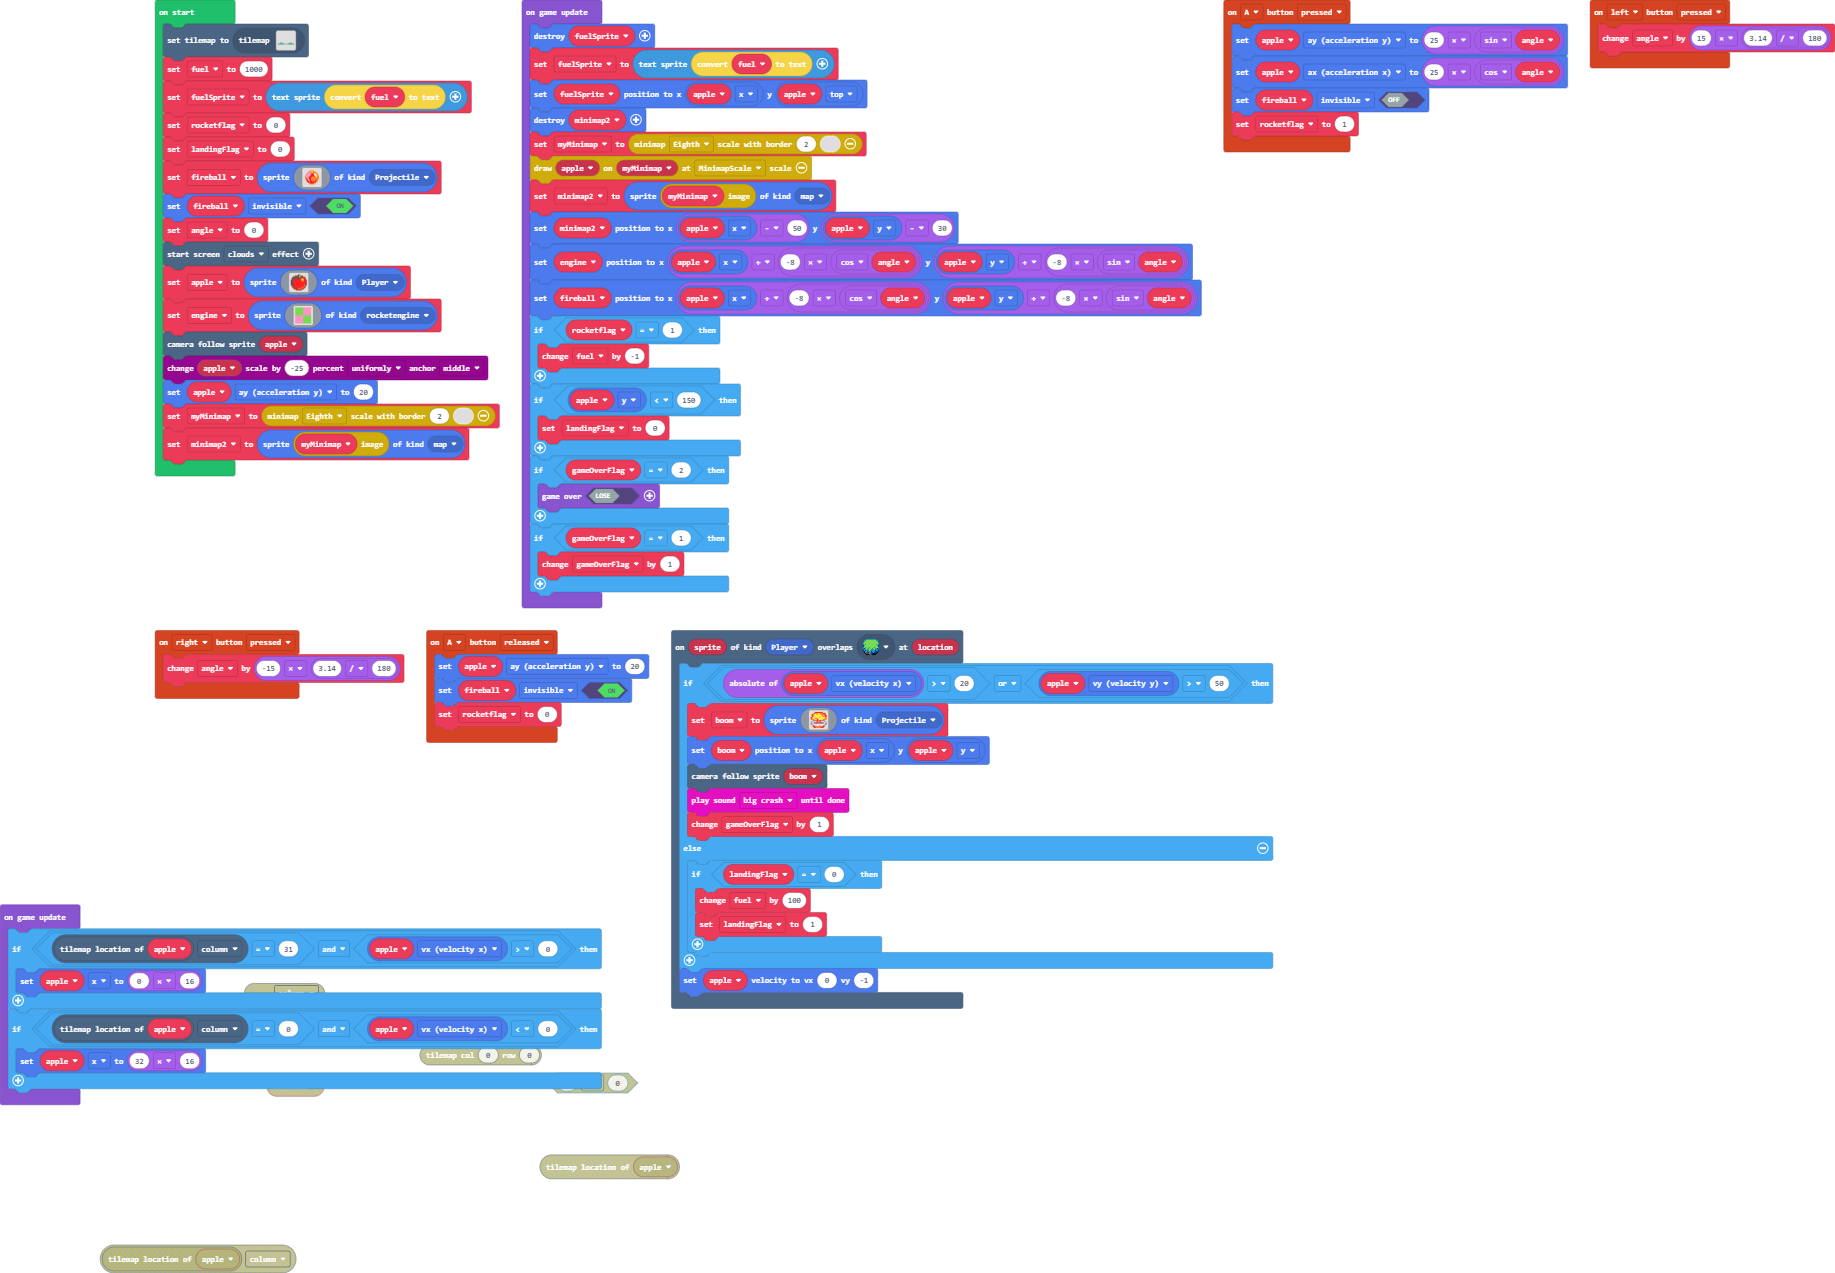
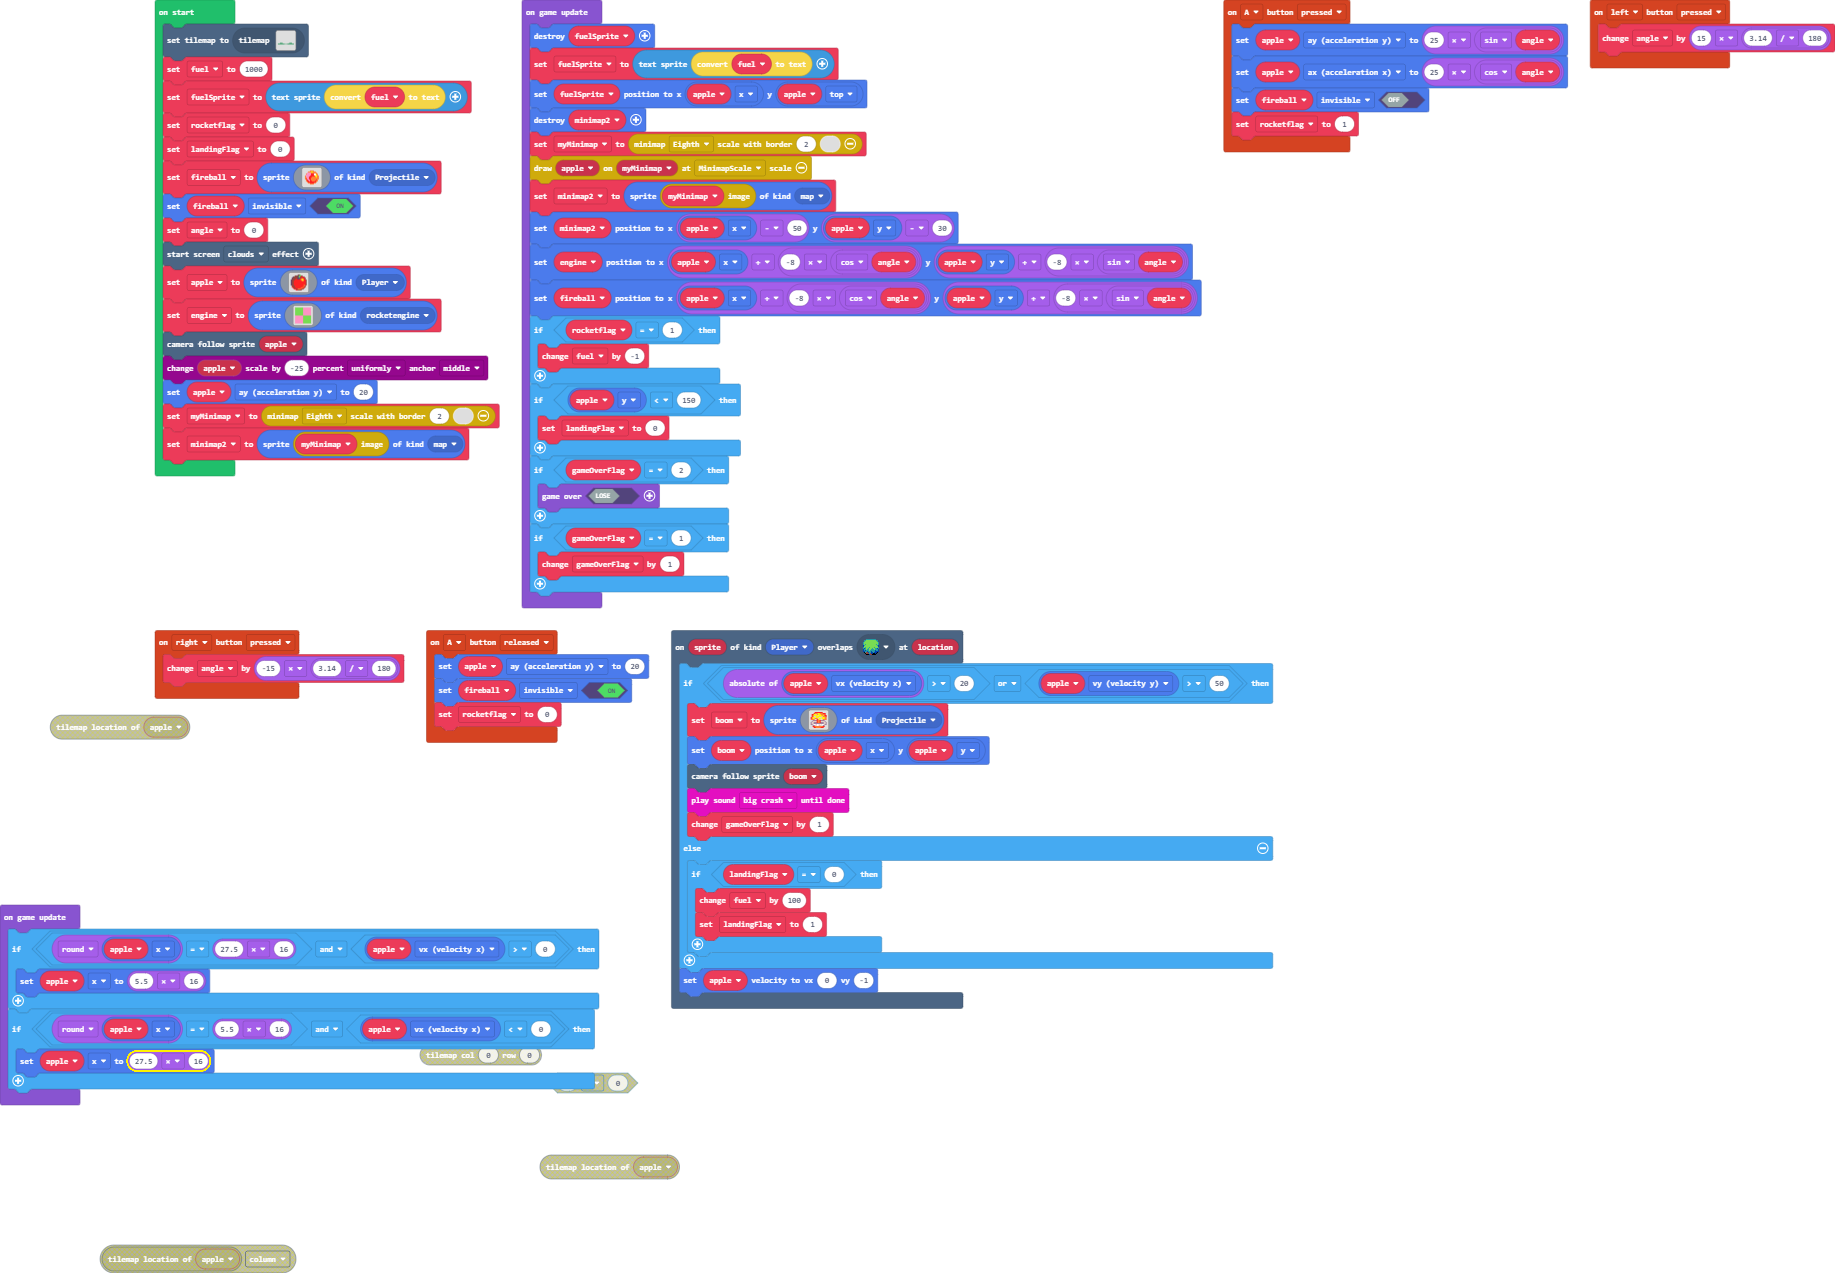
working on wrapping

Changed region(s): [[0.0311, 0.7353, 0.3417, 0.8578], [0.0311, 0.5515, 0.1243, 0.5821]]

diff --git a/main.ts b/main.ts
@@ -136,10 +136,10 @@ game.onUpdate(function () {
     }
 })
 game.onUpdate(function () {
-    if (apple.tilemapLocation().column == 31 && apple.vx > 0) {
-        apple.x = 0 * 16
+    if (Math.round(apple.x) == 27.5 * 16 && apple.vx > 0) {
+        apple.x = 5.5 * 16
     }
-    if (apple.tilemapLocation().column == 0 && apple.vx < 0) {
-        apple.x = 32 * 16
+    if (Math.round(apple.x) == 5.5 * 16 && apple.vx < 0) {
+        apple.x = 27.5 * 16
     }
 })
